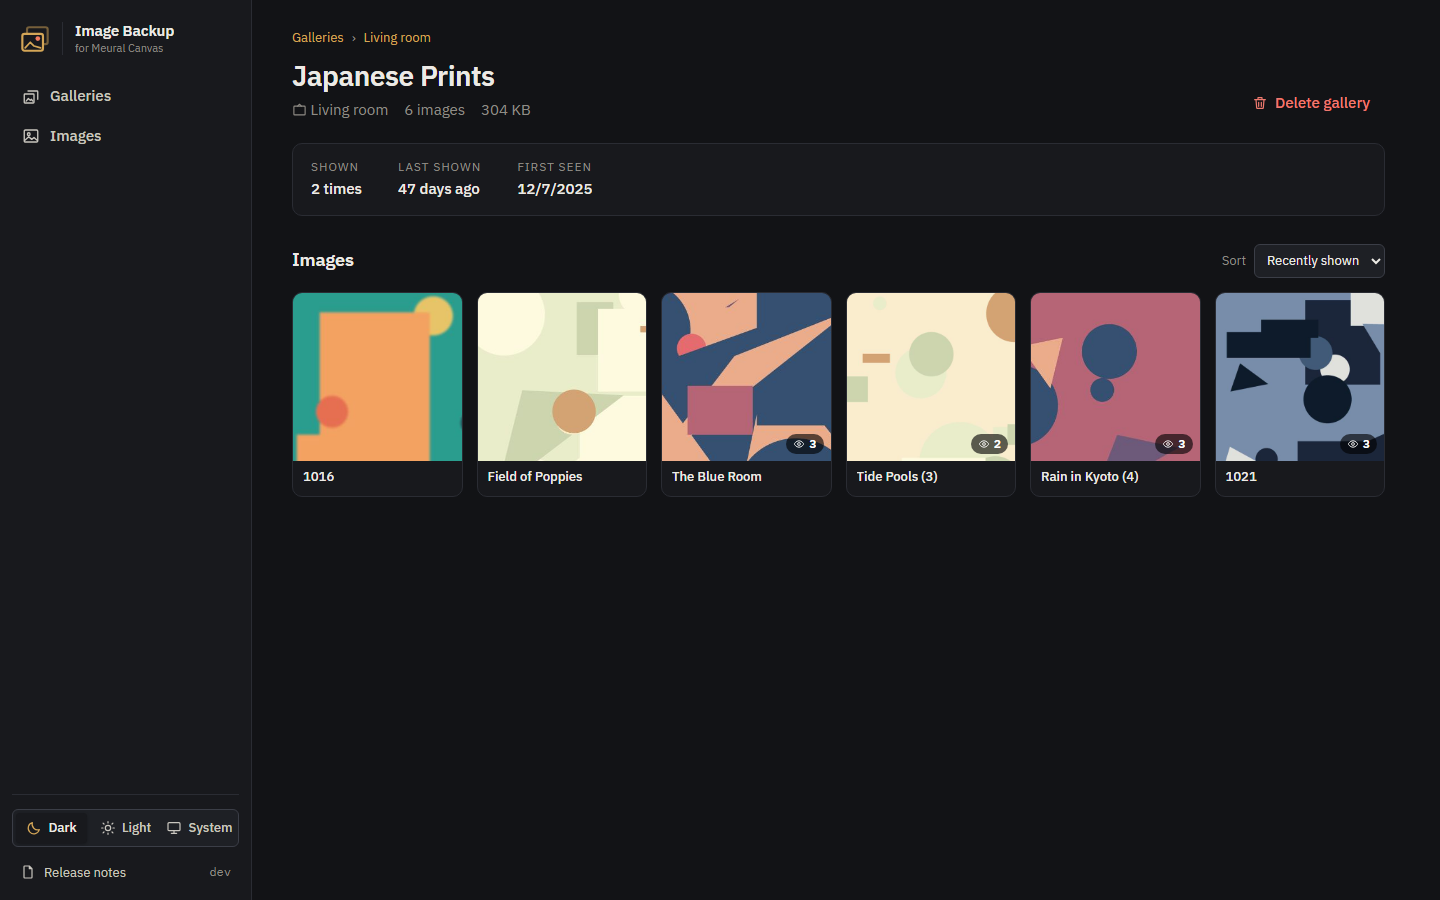
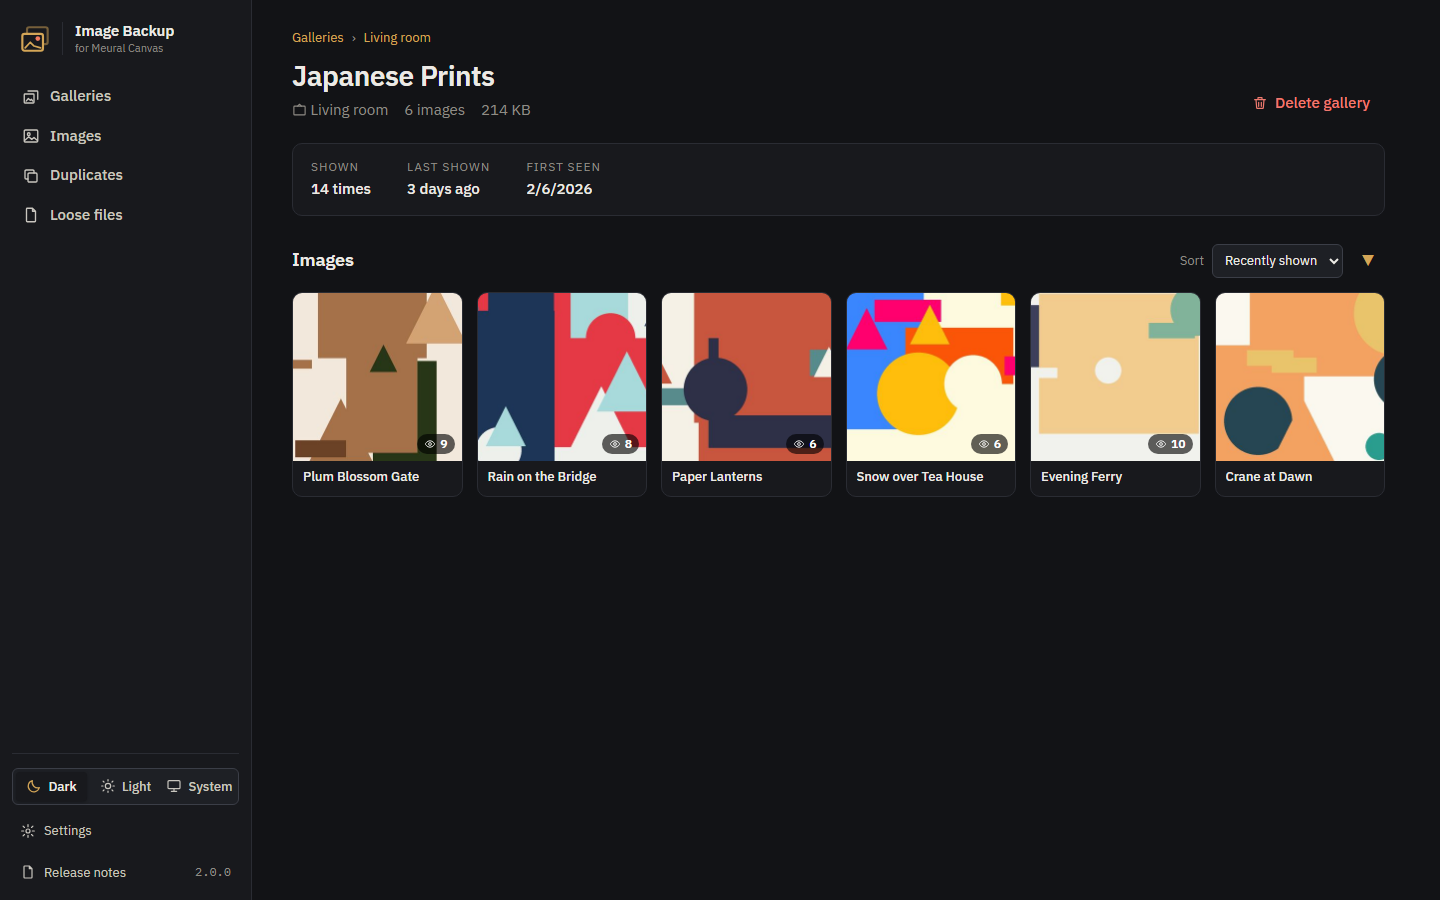
Reshoot the README screenshots and describe 2.0.0's settings and sorting
The screenshots were taken before the Duplicates, Loose files and Settings
pages existed, from demo data that later testing had worn down (missing
images, numeric file names), and showed "dev" as the version. They're
retaken from a fresh invented demo set on a 2.0.0 build, with Duplicates
and Settings added, so the README shows what the release looks like.

The feature list now mentions what 2.0.0 added but the README left out:
sorting tables by their column headers, the remembered view and sort, and
the region format and time zone setting. Run it says what `latest` points
to and how to pin a version.

diff --git a/README.md b/README.md
@@ -16,12 +16,13 @@ It's the successor of MeuralImageUploader 1.x and a drop-in replacement for it: 
 - **Galleries.** A card per gallery with its images, the frame it played on, how often and when it was last shown. Each gallery has its own page.
 - **Images.** All images as a grid or a table, with thumbnails, view counts and file sizes.
 - **Viewer.** Open an image large, step through with the arrow keys, open or download the original, or delete it.
-- **Find and filter.** Search by name, filter by frame and by "not shown for N days", and sort any way you like. Filters live in the URL, so Back brings them back.
+- **Find and filter.** Search by name, filter by frame and by "not shown for N days", and sort by name, times shown or when last shown, in tables by clicking a column header. Filters live in the URL, so Back brings them back, and each page remembers its view and sort.
 - **Sync with disk.** One button adds what's in the uploads folder but missing from the database: folders become galleries and files become images of the gallery whose folder they're in.
 - **Clean up.** Delete every gallery that hasn't been shown for a while in one go, and spot and remove entries whose file has gone missing.
 - **Duplicates.** Find images whose files are byte for byte the same, for example the same artwork uploaded twice, and keep one.
 - **Loose files.** See the files in the uploads folder that no image uses, and delete them.
 - **A photo source for MeuralManager.** MeuralManager can browse the backup by date or gallery and put images into playlists, next to Immich, with a token from the Settings page.
+- **Your region format.** Numbers, dates and times follow the region format and time zone chosen on the Settings page, or each browser's own.
 - **Dark, light or system theme**, remembered per browser.
 - **Works on phones and tablets**: sidebar on desktop, icon rail on tablets, tab bar on phones.
 - **What's new.** After an update a banner links to the release notes.
@@ -33,6 +34,10 @@ It's the successor of MeuralImageUploader 1.x and a drop-in replacement for it: 
 | Images as a table | Light theme |
 | --- | --- |
 | ![The Images table with one entry marked "File missing"](docs/screenshots/table.png) | ![The Galleries page in the light theme](docs/screenshots/light.png) |
+
+| Duplicates | Settings |
+| --- | --- |
+| ![The Duplicates page: the same image saved in two galleries, with Keep this one](docs/screenshots/duplicates.png) | ![The Settings page: MeuralManager access, region format and time zone](docs/screenshots/settings.png) |
 
 | On a phone | |
 | --- | --- |
@@ -57,6 +62,8 @@ services:
 ```
 
 Open http://localhost:8090. There's no login: put it on your home network, not on the internet.
+
+`latest` follows the newest release, currently 2.0.0. To stay on a version, use its tag instead, for example `ghcr.io/geeforceone/meuralimagebackup:2.0.0`.
 
 | Path / variable | What it is |
 | --- | --- |
